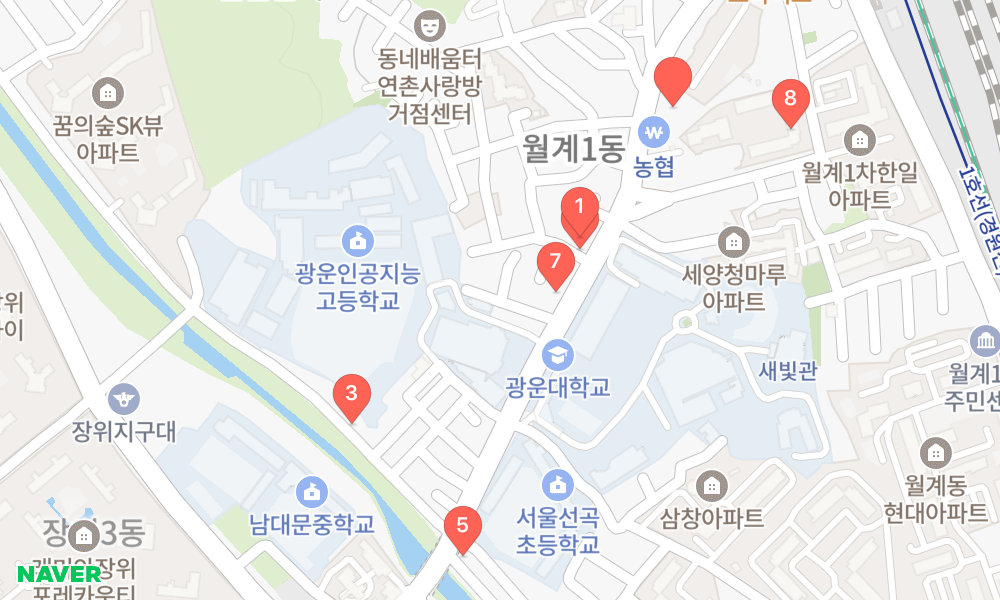
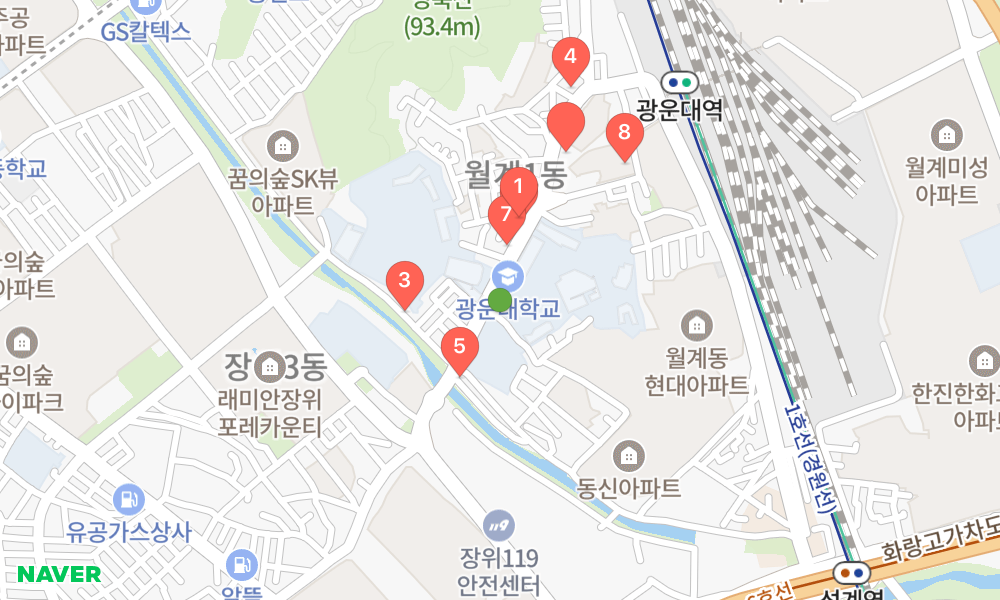
[feat]중앙 위치 마커 추가

diff --git a/mapNotFolium.py b/mapNotFolium.py
@@ -32,10 +32,11 @@ headers = {
 }
 # 중심 좌표
 lon, lat = "127.020326886309", "37.5164324582415"
-crd = geocoding("서울특별시 노원구 광운로 20")
-_center = f"{crd['lng']},{crd['lat']}"
+myLocation = addr_to_lat_lon("서울특별시 노원구 광운로 20")
+markerCenter = f"""type:n|size:small|pos:{myLocation[0]} {myLocation[1]}|color:green|viewSizeRatio:0.5"""
+_center = f"{myLocation[0]},{myLocation[1]}"
 # 줌 레벨 - 0 ~ 20
-_level = 15
+_level = 14
 # 가로 세로 크기 (픽셀)
 _w, _h = 500, 300
 # 지도 유형 - basic, traffic, satellite, satellite_base, terrain
@@ -47,26 +48,26 @@ _scale = 2
 # 마커
 #_markers = f"""type:n|size:mid|pos:{lon} {lat}|color:red|viewSizeRatio:0.5|label:1"""
 
-df = addr_to_lat_lon("서울 노원구 광운로 37 1층")
-_markers1 = f"""type:n|size:mid|pos:{df[0]} {df[1]}|color:red|viewSizeRatio:0.5|label:1"""
-df = addr_to_lat_lon("서울 노원구 광운로 133")
-_markers2 = f"""type:n|size:mid|pos:{df[0]} {df[1]}|color:red|viewSizeRatio:0.5|label:2"""
-df = addr_to_lat_lon("서울 노원구 광운로1길 26")
-_markers3 = f"""type:n|size:mid|pos:{df[0]} {df[1]}|color:red|viewSizeRatio:0.5|label:3"""
-df = addr_to_lat_lon("서울 노원구 광운로 61 2층")
-_markers4 = f"""type:n|size:mid|pos:{df[0]} {df[1]}|color:red|viewSizeRatio:0.5|label:4"""
-df = addr_to_lat_lon("서울 노원구 광운로2길 6 1층")
-_markers5 = f"""type:n|size:mid|pos:{df[0]} {df[1]}|color:red|viewSizeRatio:0.5|label:5"""
-df = addr_to_lat_lon("서울 노원구 광운로 132 월계역신도브래뉴 B동 1층 103호")
-_markers6 = f"""type:n|size:mid|pos:{df[0]} {df[1]}|color:red|viewSizeRatio:0.5|label:6"""
-df = addr_to_lat_lon("서울 노원구 광운로 29 2층")
-_markers7 = f"""type:n|size:mid|pos:{df[0]} {df[1]}|color:red|viewSizeRatio:0.5|label:7"""
-df = addr_to_lat_lon("서울 노원구 광운로 46")
-_markers8 = f"""type:n|size:mid|pos:{df[0]} {df[1]}|color:red|viewSizeRatio:0.5|label:8"""
-df = addr_to_lat_lon("서울 노원구 광운로 35 2층")
-_markers9 = f"""type:n|size:mid|pos:{df[0]} {df[1]}|color:red|viewSizeRatio:0.5|label:9"""
-df = addr_to_lat_lon("서울 노원구 광운로 52")
-_markers10 = f"""type:n|size:mid|pos:{df[0]} {df[1]}|color:red|viewSizeRatio:0.5|label:10"""
+foodLocation = addr_to_lat_lon("서울 노원구 광운로 37 1층")
+_markers1 = f"""type:n|size:mid|pos:{foodLocation[0]} {foodLocation[1]}|color:red|viewSizeRatio:0.5|label:1"""
+foodLocation = addr_to_lat_lon("서울 노원구 광운로 133")
+_markers2 = f"""type:n|size:mid|pos:{foodLocation[0]} {foodLocation[1]}|color:red|viewSizeRatio:0.5|label:2"""
+foodLocation = addr_to_lat_lon("서울 노원구 광운로1길 26")
+_markers3 = f"""type:n|size:mid|pos:{foodLocation[0]} {foodLocation[1]}|color:red|viewSizeRatio:0.5|label:3"""
+foodLocation = addr_to_lat_lon("서울 노원구 광운로 61 2층")
+_markers4 = f"""type:n|size:mid|pos:{foodLocation[0]} {foodLocation[1]}|color:red|viewSizeRatio:0.5|label:4"""
+foodLocation = addr_to_lat_lon("서울 노원구 광운로2길 6 1층")
+_markers5 = f"""type:n|size:mid|pos:{foodLocation[0]} {foodLocation[1]}|color:red|viewSizeRatio:0.5|label:5"""
+foodLocation = addr_to_lat_lon("서울 노원구 광운로 132 월계역신도브래뉴 B동 1층 103호")
+_markers6 = f"""type:n|size:mid|pos:{foodLocation[0]} {foodLocation[1]}|color:red|viewSizeRatio:0.5|label:6"""
+foodLocation = addr_to_lat_lon("서울 노원구 광운로 29 2층")
+_markers7 = f"""type:n|size:mid|pos:{foodLocation[0]} {foodLocation[1]}|color:red|viewSizeRatio:0.5|label:7"""
+foodLocation = addr_to_lat_lon("서울 노원구 광운로 46")
+_markers8 = f"""type:n|size:mid|pos:{foodLocation[0]} {foodLocation[1]}|color:red|viewSizeRatio:0.5|label:8"""
+foodLocation = addr_to_lat_lon("서울 노원구 광운로 35 2층")
+_markers9 = f"""type:n|size:mid|pos:{foodLocation[0]} {foodLocation[1]}|color:red|viewSizeRatio:0.5|label:9"""
+foodLocation = addr_to_lat_lon("서울 노원구 광운로 52")
+_markers10 = f"""type:n|size:mid|pos:{foodLocation[0]} {foodLocation[1]}|color:red|viewSizeRatio:0.5|label:10"""
 
 
 #crd = geocoding("서울 노원구 광운로 52")
@@ -79,7 +80,7 @@ _public_transit = True
 _dataversion = ""
 
 # URL
-url = f"{endpoint}?center={_center}&level={_level}&w={_w}&h={_h}&maptype={_maptype}&format={_format}&scale={_scale}&markers={_markers1}&markers={_markers2}&markers={_markers3}&markers={_markers4}&markers={_markers5}&markers={_markers6}&markers={_markers7}&markers={_markers8}&markers={_markers9}&markers={_markers10}&lang={_lang}&public_transit={_public_transit}&dataversion={_dataversion}"
+url = f"{endpoint}?center={_center}&level={_level}&w={_w}&h={_h}&maptype={_maptype}&format={_format}&scale={_scale}&markers={markerCenter}&markers={_markers1}&markers={_markers2}&markers={_markers3}&markers={_markers4}&markers={_markers5}&markers={_markers6}&markers={_markers7}&markers={_markers8}&markers={_markers9}&markers={_markers10}&lang={_lang}&public_transit={_public_transit}&dataversion={_dataversion}"
 res = requests.get(url, headers=headers)
 
 image_data = io.BytesIO(res.content)
